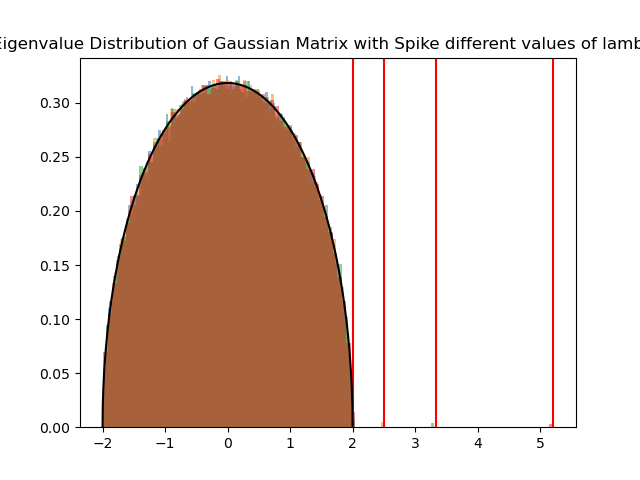
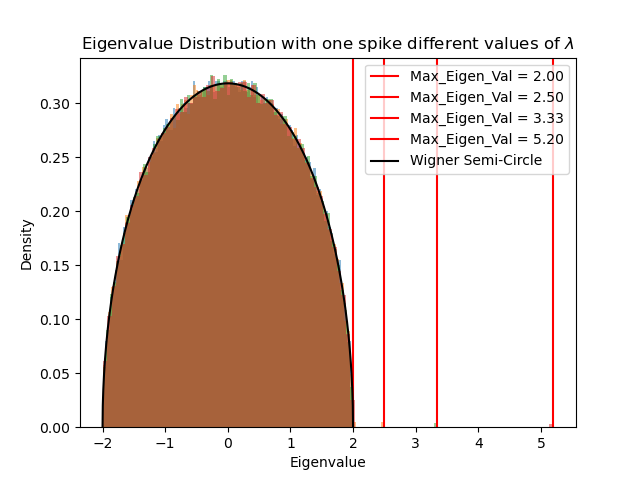
jai tout mis

diff --git a/Spike_code/model_2.py b/Spike_code/model_2.py
@@ -1,0 +1,323 @@
+import os
+import numpy as np
+import matplotlib.pyplot as plt
+
+class WignerMatrix:
+    def __init__(self, N):
+        self.n = N
+        self.matrix = self._build()
+        self._eigenvalues: np.ndarray | None = None
+        self._eigenvectors: np.ndarray | None = None
+
+    def _build(self):
+        G = np.random.normal(0, 1, (self.n, self.n))
+        return (G + G.T) / np.sqrt(2 * self.n)
+
+    def compute_eigen(self):
+        self._eigenvalues, self._eigenvectors = np.linalg.eigh(self.matrix)
+
+        
+    @property
+    def eigenvalues(self) -> np.ndarray:
+        if self._eigenvalues is None:  # only compute if not already cached -> WE COMPUTE IT ONCE 
+            self.compute_eigen()
+        assert self._eigenvalues is not None
+        return self._eigenvalues
+    
+    @property
+    def eigenvectors(self) -> np.ndarray:
+        if self._eigenvectors is None:
+            self.compute_eigen()
+        assert self._eigenvectors is not None
+        return self._eigenvectors
+    
+    def max_eigenvector(self):
+        return self.eigenvectors[:, -1]
+
+    def max_eigenvalue(self):
+        return self.eigenvalues[-1]
+    
+    def theoretical_max_eigenvalue(self):
+        return 2
+    
+    def plot_Wigner_Semi_Circle(self):
+        x = np.linspace(-2, 2, 1000)
+        y = np.sqrt(4 - x**2) / (2 * np.pi)
+        plt.plot(x, y, label='Wigner Semi-Circle', color='black')
+        return None
+    
+    def plot_eigenvalue_distribution(self, label = False):
+        label = f'n={self.n}' if label == 0 else '_nolegend_'
+        plt.hist(self.eigenvalues, bins=100, density=True, alpha=0.5, label=label)
+        return None
+    
+    def plot_Max_Eigenval(self):
+        x = self.max_eigenvalue()
+        plt.axvline(float(x),label=f'Max_Eigen_Val = {x:.2f}', color='red')
+        return None
+    
+    def ploplote(self, xlabel: str = 'Eigenvalue', ylabel: str = 'Density', title: str = 'Mettre Titre', savefig: str = 'Mettre Nom', grid: bool = False, Wigner: bool = False, Max_Eigen_val: bool = False):
+        plt.xlabel(xlabel)
+        plt.ylabel(ylabel)
+        if grid: plt.grid()
+        if Wigner: self.plot_Wigner_Semi_Circle()
+        if Max_Eigen_val: self.plot_Max_Eigenval()
+        plt.legend()
+        plt.title(title)
+        os.makedirs('../Plots/Spike/', exist_ok=True)
+        plt.savefig('../Plots/Spike/' + savefig + '.png')
+        plt.show()
+        return None
+
+
+class SpikedWignerMatrix(WignerMatrix):
+    def __init__(self, N, lamba):
+        super().__init__(N)     #call the constructor of the parent class
+        self.lamba = lamba
+        self.base_matrix = self.matrix.copy()  #store the unspiked Wigner matrix
+        self.spike = self._build_spike()   #name starts by _ that means it's a private method (only callabe when initializing)
+        self.matrix = self._add_spike()     #we overwirte the one of the parent class
+        self._eigenvalues = None            #reset cache eigenval to none just in case
+        
+    def _build_spike(self): 
+        v = np.random.normal(0, 1, self.n)
+        return v / np.linalg.norm(v)
+
+    def _add_spike(self):
+        return self.base_matrix + self.lamba * np.outer(self.spike, self.spike)
+    
+    def theoretical_max_eigenvalue(self):
+        if self.lamba >= 1:
+            return self.lamba + 1/self.lamba
+        else:
+            return 2
+        
+    def overlap1(self, x_hat):
+        return np.abs(np.dot(x_hat, self.spike))
+    
+    def change_lambda(self, new_lambda):
+        self.matrix = self.base_matrix + (new_lambda - self.lamba) * np.outer(self.spike, self.spike)  #rebuild from base Wigner
+        self.lamba = new_lambda
+        self._eigenvalues = None      # reset cache
+        self._eigenvectors = None     # reset cache
+        return None
+    
+class TwoSpikedWignerMatrix(WignerMatrix):
+    def __init__(self, N, lamba_1, lamba_2, rho, alpha):
+        super().__init__(N)
+        self.lamba1 = lamba_1
+        self.lamba2 = lamba_2
+        self.rho = rho
+        self.alpha = alpha
+        self.Y1, self.Y2 = None, None
+        self.spike1, self.spike2 = self._build_2_spikes(self.rho)
+        self.matrix = self._add_two_spikes()
+        self._eigenvalues, self._eigenvectors = None, None            #reset cache eigenval to None just in case
+
+
+    def _build_2_spikes(self, rho):
+        cov = [[1, rho],
+               [rho, 1]]
+        mean = [0, 0]
+        X = np.random.multivariate_normal(mean, cov, self.n)
+        u = X[:, 0]
+        v = X[:, 1]
+        u = u / np.linalg.norm(u)
+        v = v / np.linalg.norm(v)
+        return u, v
+    
+    def _add_two_spikes(self):
+        u, v = self.spike1, self.spike2
+        G2 = WignerMatrix(self.n)                # second independent Wigner matrix
+        Y1 = self.matrix + self.lamba1 * np.outer(u, u)
+        Y2 = G2.matrix + self.lamba2 * np.outer(v, v)
+        self.Y1, self.Y2 = Y1, Y2
+        return self.alpha * self.Y1 + np.sqrt(1 - self.alpha**2) * self.Y2
+    
+    def max_eigenvalue(self):       #overwrite to block
+        raise NotImplementedError("max_eigenvalue is not defined for two correlated spikes")
+    
+    def loss(self, x_hat):
+        return (self.alpha * np.linalg.norm(self.Y1 - np.outer(x_hat,x_hat))**2 + np.sqrt(1-self.alpha**2) * np.linalg.norm(self.Y2 - np.outer(x_hat,x_hat))**2)/self.n
+
+    def gradient_descent_loss_1(self,x_hat, lr, iterations):
+        for i in range(iterations):
+            grad = 2 * self.alpha * (np.outer(x_hat,x_hat) - self.Y1) @ x_hat + 2 * np.sqrt(1-self.alpha**2) * (np.outer(x_hat,x_hat) - self.Y2) @ x_hat
+            x_hat = x_hat - lr * grad
+            x_hat = x_hat / np.linalg.norm(x_hat)
+        return x_hat
+    
+    def overlap1(self, x_hat):
+        return np.abs(np.dot(x_hat, self.spike1))
+    
+    def overlap2(self, x_hat):
+        return np.abs(np.dot(x_hat, self.spike2))
+    
+    def new_alpha(self, alpha):
+        self.alpha = alpha
+        self.matrix = self.alpha * self.Y1 + np.sqrt(1 - self.alpha**2) * self.Y2
+        return None
+    
+    def change_lambda1(self, new_lambda1):
+        self.matrix = self.matrix + self.alpha * ( (new_lambda1 - self.lamba1) * np.outer(self.spike1, self.spike1)) 
+        self.lamba1 = new_lambda1
+        self._eigenvalues = None      # reset cache
+        self._eigenvectors = None     # reset cache
+        return None
+        
+    def change_lambda2(self, new_lambda2):
+        self.matrix = self.matrix + np.sqrt(1 - self.alpha**2) * ( (new_lambda2 - self.lamba2) * np.outer(self.spike2, self.spike2)) 
+        self.lamba2 = new_lambda2
+        self._eigenvalues = None      # reset cache
+        self._eigenvectors = None     # reset cache
+        return None
+    
+    def adam(self, x_hat, lr=1e-2, iterations=1000, beta1=0.9, beta2=0.999, eps=1e-8, tol=1e-7):
+        m = np.zeros_like(x_hat)
+        v = np.zeros_like(x_hat)
+        for i in range(1, iterations + 1):
+            Y1x, Y2x = self.Y1 @ x_hat, self.Y2 @ x_hat          # O(N²), unavoidable
+            grad = (4 / self.n) * (
+                self.alpha * (x_hat - Y1x)                         # outer(x,x)@x = x avoided
+                + np.sqrt(1 - self.alpha**2) * (x_hat - Y2x)
+            )
+            grad = grad - np.dot(grad, x_hat) * x_hat              # Riemannian projection
+            if np.linalg.norm(grad) < tol:                         # early stopping
+                break
+            m = beta1 * m + (1 - beta1) * grad
+            v = beta2 * v + (1 - beta2) * grad**2
+            m_hat = m / (1 - beta1**i)
+            v_hat = v / (1 - beta2**i)
+            x_hat = x_hat - lr * m_hat / (np.sqrt(v_hat) + eps)
+            x_hat = x_hat / np.linalg.norm(x_hat)
+        return x_hat
+    
+    def power_iteration(self, x_hat, iterations=200, tol=1e-9):
+        for _ in range(iterations):
+            x_new = self.matrix @ x_hat   # single mat-vec, O(N²)
+            x_new /= np.linalg.norm(x_new)
+            if np.linalg.norm(x_new - x_hat) < tol:
+                break
+            x_hat = x_new
+        return x_hat
+
+def phase_diagram_(N, rho, alpha, lambas1, lambas2, N_gradient_descent, threshold, N_average):
+    colors = []
+    x_vals = []
+    y_vals = []
+    for lamba1 in lambas1:
+        for lamba2 in lambas2:
+            m_avg_1 = []
+            m_avg_2 = []
+            for i in range(N_average):
+                M = TwoSpikedWignerMatrix(N, lamba1, lamba2, rho, alpha) 
+                x_hat = np.random.normal(0, 1, N)
+                x_hat = x_hat / np.linalg.norm(x_hat)
+                x_hat = M.power_iteration(x_hat, N_gradient_descent)
+                m_avg_1.append(M.overlap1(x_hat))
+                m_avg_2.append(M.overlap2(x_hat))
+            overlap_1 = np.mean(m_avg_1)
+            overlap_2 = np.mean(m_avg_2)
+            
+
+            x_vals.append(lamba1)
+            y_vals.append(lamba2)
+
+            if overlap_1 > threshold and overlap_2 > threshold:
+                colors.append("blue")
+
+            elif overlap_1 < threshold and overlap_2 < threshold:
+                colors.append("red")
+
+            elif overlap_1 > threshold:
+                colors.append("green")
+
+            else:
+                colors.append("pink")
+    return x_vals, y_vals, colors
+
+def ploplote_moi_ca(xlabel: str = 'Mettre axe x', ylabel: str = 'Mettre axe y', title: str = 'Mettre Titre', savefig: str = 'Mettre Nom', grid: bool = False, legend: bool = False):
+        plt.xlabel(xlabel)
+        plt.ylabel(ylabel)
+        if grid: plt.grid()
+        if legend:plt.legend()
+        plt.title(title)
+        os.makedirs('../Plots/Spike/', exist_ok=True)
+        plt.savefig('../Plots/Spike/' + savefig + '.png')
+        plt.show()
+        return None
+
+def phase_diagram(N, rho, alpha, lambas1, lambas2, N_gradient_descent, threshold, N_average):
+    colors = []
+    x_vals = []
+    y_vals = []
+    for lamba1 in lambas1:
+        for lamba2 in lambas2:
+            votes_1 = 0
+            votes_2 = 0
+            for i in range(N_average):
+                M = TwoSpikedWignerMatrix(N, lamba1, lamba2, rho, alpha)
+                x_hat = np.random.normal(0, 1, N)
+                x_hat /= np.linalg.norm(x_hat)
+                x_hat = M.power_iteration(x_hat, N_gradient_descent)
+                if M.overlap1(x_hat) > threshold:
+                    votes_1 += 1
+                if M.overlap2(x_hat) > threshold:
+                    votes_2 += 1
+
+            recovered_1 = votes_1 > N_average / 2
+            recovered_2 = votes_2 > N_average / 2
+
+            x_vals.append(lamba1)
+            y_vals.append(lamba2)
+
+            if recovered_1 and recovered_2:
+                colors.append("blue")
+            elif not recovered_1 and not recovered_2:
+                colors.append("red")
+            elif recovered_1:
+                colors.append("green")
+            else:
+                colors.append("pink")
+    return x_vals, y_vals, colors
+
+
+from multiprocessing import Pool
+
+def _evaluate_point(args):
+    N, lamba1, lamba2, rho, alpha, N_gradient_descent, threshold, N_average = args
+    votes_1 = 0
+    votes_2 = 0
+    for i in range(N_average):
+        M = TwoSpikedWignerMatrix(N, lamba1, lamba2, rho, alpha)
+        x_hat = np.random.normal(0, 1, N)
+        x_hat /= np.linalg.norm(x_hat)
+        x_hat = M.power_iteration(x_hat, N_gradient_descent)
+        if M.overlap1(x_hat) > threshold:
+            votes_1 += 1
+        if M.overlap2(x_hat) > threshold:
+            votes_2 += 1
+    recovered_1 = votes_1 > N_average / 2
+    recovered_2 = votes_2 > N_average / 2
+    if recovered_1 and recovered_2:
+        return lamba1, lamba2, "blue"
+    elif not recovered_1 and not recovered_2:
+        return lamba1, lamba2, "red"
+    elif recovered_1:
+        return lamba1, lamba2, "green"
+    else:
+        return lamba1, lamba2, "pink"
+
+def phase_diagram_parallel(N, rho, alpha, lambas1, lambas2, N_gradient_descent, threshold, N_average):
+    args = [
+        (N, l1, l2, rho, alpha, N_gradient_descent, threshold, N_average)
+        for l1 in lambas1
+        for l2 in lambas2
+    ]
+    with Pool(processes=4) as pool:
+        results = pool.map(_evaluate_point, args)
+
+    x_vals = [r[0] for r in results]
+    y_vals = [r[1] for r in results]
+    colors = [r[2] for r in results]
+    return x_vals, y_vals, colors

diff --git a/Spike_code/plots_2.py b/Spike_code/plots_2.py
@@ -1,0 +1,19 @@
+import numpy as np
+import matplotlib.pyplot as plt
+import model_2 as m
+
+N = 500
+alphas = np.linspace(0.2, 0.8, 4)  
+lambas1 = np.linspace(0.1, 7, 20)
+lambas2 = np.linspace(0.1, 7, 20)
+rhos = np.linspace(0.1, 0.9, 9)
+N_gradient_descent = 1000
+threshold = 0.1
+N_average = 20
+
+if __name__ == '__main__':
+    for rho in rhos:
+        for alpha in alphas:
+            x_vals, y_vals, colors = m.phase_diagram_parallel(N, rho, alpha, lambas1, lambas2, N_gradient_descent, threshold, N_average)
+            plt.scatter(x_vals, y_vals, c=colors, s=60, marker='.')
+            m.ploplote_moi_ca(xlabel=r'$\lambda_1$', ylabel=r'$\lambda_2$', title=rf'Phase Diagram for $\rho$ = {rho:.2f} and $\alpha$ = {alpha:.2f}', savefig=f'Phase_Diagram_rho={rho:.2f}_and_alpha={alpha:.2f}', grid=False, legend=False)
